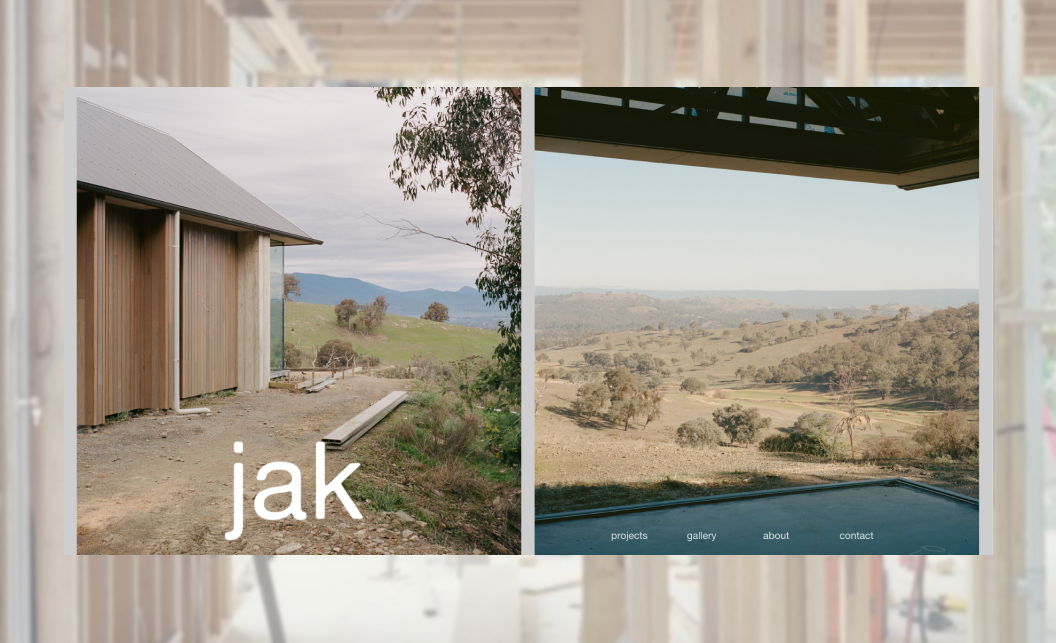
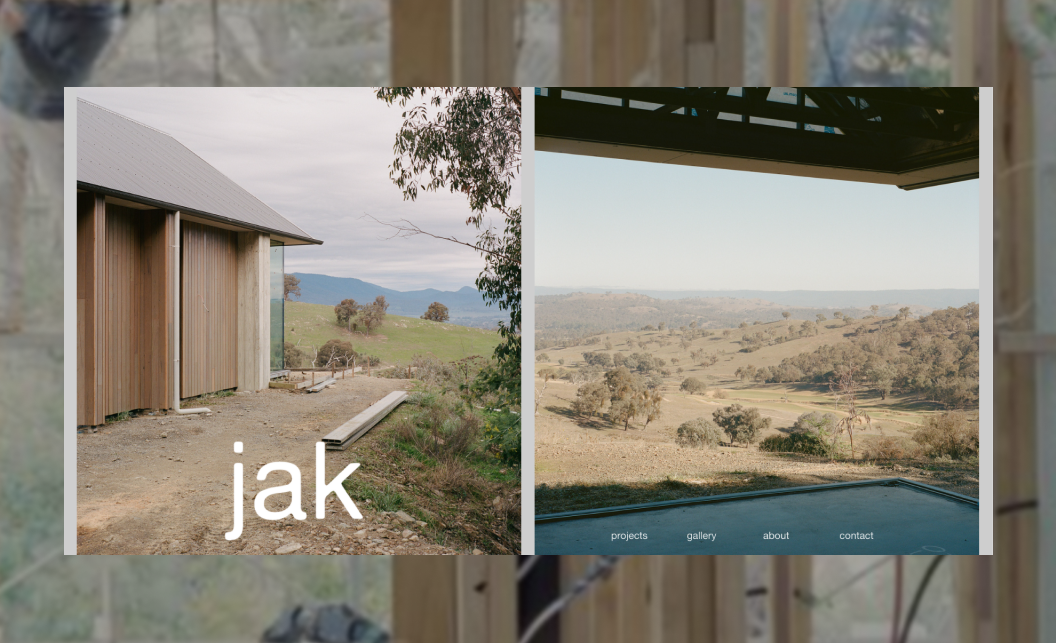
services

diff --git a/experience.html b/experience.html
@@ -25,6 +25,7 @@
           <button class="nav__link nav__link--close nav__link--close-clients js-clients-close" type="button" aria-label="Close clients list">x</button>
         </div>
       </div>
+      <a class="nav__link nav__link--services" href="#services">services</a>
     </nav>
     <p class="intro js-exp-intro" title="Something about our approach to experience design.">
       Something about our approach to experience design.
@@ -82,10 +83,12 @@
       <div class="exp-cases__rule"></div>
       <div class="exp-cases__grid">
         <article class="exp-case">
-          <div class="exp-case__media"></div>
-          <h3 class="exp-case__title">Balancing regional nuance with global cohesion</h3>
-          <span class="exp-case__company">Aesop</span>
-          <span class="exp-case__service">Experience Design</span>
+          <a class="exp-case__link" href="/case-study-aesop.html">
+            <div class="exp-case__media"></div>
+            <h3 class="exp-case__title">Balancing regional nuance with global cohesion</h3>
+            <span class="exp-case__company">Aesop</span>
+            <span class="exp-case__service">Experience Design</span>
+          </a>
         </article>
         <article class="exp-case">
           <div class="exp-case__media"></div>
@@ -103,8 +106,40 @@
     </section>
   </main>
 
-  <footer class="footer">
-    <p class="footer__text">kspf.studio</p>
+  <footer class="footer" id="services">
+    <p class="footer__title">Services</p>
+    <div class="footer__services">
+      <div class="footer__services-column">
+        <div class="footer__services-group">
+          <p class="footer__services-heading">Web Development</p>
+          <ul class="footer__services-list">
+            <li>Web Design</li>
+            <li>Shopify</li>
+            <li>Cargo | Squarespace</li>
+            <li>Custom HTML/CSS/ Java Script</li>
+          </ul>
+        </div>
+        <div class="footer__services-group">
+          <a class="footer__services-heading" href="/experience.html">Experience</a>
+          <ul class="footer__services-list">
+            <li>Product Design</li>
+            <li>Research</li>
+            <li>UX Strategy</li>
+            <li>Accessibility Consulting</li>
+          </ul>
+        </div>
+      </div>
+      <div class="footer__services-column">
+        <div class="footer__services-group">
+          <p class="footer__services-heading">Visual Design</p>
+          <ul class="footer__services-list">
+            <li>Identity</li>
+            <li>Editorial</li>
+            <li>Art Direction</li>
+          </ul>
+        </div>
+      </div>
+    </div>
   </footer>
 </body>
 </html>

diff --git a/style.css b/style.css
@@ -93,7 +93,7 @@ body.grid-overlay{
 
 .nav__group{
   grid-row: 1;
-  grid-column: 5 / -1;
+  grid-column: 5 / -2;
   display: inline-flex;
   align-items: center;
   gap: var(--nav-group-gap);
@@ -132,6 +132,10 @@ body.grid-overlay{
 
 
 .nav__link--home{ grid-column: 1 / span 2; }
+.nav__link--services{
+  grid-column: -2 / -1;
+  justify-self: end;
+}
 
 .nav__link--close{
 	  display: inline-block;
@@ -456,17 +460,56 @@ body.grid-overlay{
 /* --- footer --- */
 .footer{
   margin: 80px 0 0;
+  padding: 60px 0 90px;
   display: grid;
   grid-template-columns: repeat(var(--grid-cols), minmax(0, 1fr));
   column-gap: var(--gutter);
+  row-gap: 28px;
   border-top: 1px solid rgba(0, 0, 0, 0.6);
-  height: 150px;
-  align-items: center;
+  align-items: start;
 }
 
-.footer__text{
+.footer__title{
   margin: 0;
-  grid-column: 1 / span 4;
+  grid-column: 3 / span 2;
+}
+
+.footer__services{
+  grid-column: 8 / -1;
+  display: grid;
+  grid-template-columns: repeat(2, minmax(0, 1fr));
+  column-gap: 40px;
+  row-gap: 36px;
+}
+
+.footer__services-column{
+  display: flex;
+  flex-direction: column;
+  gap: 36px;
+}
+
+.footer__services-group{
+  display: flex;
+  flex-direction: column;
+  gap: 10px;
+}
+
+.footer__services-heading{
+  margin: 0;
+  color: inherit;
+  display: inline-block;
+  text-decoration: underline;
+  text-underline-offset: 3px;
+  text-decoration-thickness: 0.5px;
+}
+
+.footer__services-list{
+  list-style: none;
+  padding: 0;
+  margin: 0;
+  display: flex;
+  flex-direction: column;
+  gap: 6px;
 }
  
 /* --- project row --- */
@@ -558,6 +601,13 @@ body.grid-overlay{
   max-width: 420px;
   display: grid;
   row-gap: 10px;
+}
+
+.exp-case__link{
+  display: grid;
+  row-gap: 10px;
+  color: inherit;
+  text-decoration: none;
 }
 
 .exp-case__media{
@@ -821,7 +871,7 @@ body.grid-overlay{
 	  }
 
 	  .nav__link--home{ grid-column: 1 / span 2; }
-	  .nav__group{ grid-column: 3 / -1; }
+	  .nav__group{ grid-column: 3 / -2; }
 
 	  .clients-overlay__list{
 	    grid-column: 1 / -1;
@@ -875,6 +925,19 @@ body.grid-overlay{
     object-fit: cover;
   }
 
+  .footer{
+    padding: 50px 0 70px;
+  }
+
+  .footer__title{
+    grid-column: 1 / -1;
+  }
+
+  .footer__services{
+    grid-column: 1 / -1;
+    grid-template-columns: 1fr;
+    row-gap: 28px;
+  }
 
   .project{ display: block; width: 100%; margin: 44px 0 0; }
   .project__text{ width: 100%; max-width: none; }

diff --git a/index.html b/index.html
@@ -26,6 +26,7 @@
           <button class="nav__link nav__link--close nav__link--close-clients js-clients-close" type="button" aria-label="Close clients list">x</button>
         </div>
       </div>
+      <a class="nav__link nav__link--services" href="#services">services</a>
     </nav>
     <p class="intro" title="kspf is a digital practice, run by Rowan, in collaboration with a community of local creatives. We craft digital experiences beyond aesthetics. Designed to reflect each brand’s story and ambitions.">
      kspf is a design and research practice, run by Rowan Kuskopf, in collaboration with a community of local creatives. We design and build web experiences, custom fit and purpose built for each brand’s unique taste and story.
@@ -70,8 +71,40 @@
     <div id="projects" class="projects" aria-live="polite"></div>
   </main>
 
-  <footer class="footer">
-    <p class="footer__text">kspf.studio</p>
+  <footer class="footer" id="services">
+    <p class="footer__title">Services</p>
+    <div class="footer__services">
+      <div class="footer__services-column">
+        <div class="footer__services-group">
+          <p class="footer__services-heading">Web Development</p>
+          <ul class="footer__services-list">
+            <li>Web Design</li>
+            <li>Shopify</li>
+            <li>Cargo | Squarespace</li>
+            <li>Custom HTML/CSS/ Java Script</li>
+          </ul>
+        </div>
+        <div class="footer__services-group">
+          <a class="footer__services-heading" href="/experience.html">Experience</a>
+          <ul class="footer__services-list">
+            <li>Product Design</li>
+            <li>Research</li>
+            <li>UX Strategy</li>
+            <li>Accessibility Consulting</li>
+          </ul>
+        </div>
+      </div>
+      <div class="footer__services-column">
+        <div class="footer__services-group">
+          <p class="footer__services-heading">Visual Design</p>
+          <ul class="footer__services-list">
+            <li>Identity</li>
+            <li>Editorial</li>
+            <li>Art Direction</li>
+          </ul>
+        </div>
+      </div>
+    </div>
   </footer>
 </body>
 </html>

diff --git a/case-study-aesop.html b/case-study-aesop.html
@@ -29,6 +29,7 @@
           <button class="nav__link nav__link--close nav__link--close-clients js-clients-close" type="button" aria-label="Close clients list">x</button>
         </div>
       </div>
+      <a class="nav__link nav__link--services" href="#services">services</a>
     </nav>
     <p class="intro" title="Case study">
       Case study
@@ -204,8 +205,40 @@
     </section>
   </main>
 
-  <footer class="footer">
-    <p class="footer__text">kspf.studio</p>
+  <footer class="footer" id="services">
+    <p class="footer__title">Services</p>
+    <div class="footer__services">
+      <div class="footer__services-column">
+        <div class="footer__services-group">
+          <p class="footer__services-heading">Web Development</p>
+          <ul class="footer__services-list">
+            <li>Web Design</li>
+            <li>Shopify</li>
+            <li>Cargo | Squarespace</li>
+            <li>Custom HTML/CSS/ Java Script</li>
+          </ul>
+        </div>
+        <div class="footer__services-group">
+          <a class="footer__services-heading" href="/experience.html">Experience</a>
+          <ul class="footer__services-list">
+            <li>Product Design</li>
+            <li>Research</li>
+            <li>UX Strategy</li>
+            <li>Accessibility Consulting</li>
+          </ul>
+        </div>
+      </div>
+      <div class="footer__services-column">
+        <div class="footer__services-group">
+          <p class="footer__services-heading">Visual Design</p>
+          <ul class="footer__services-list">
+            <li>Identity</li>
+            <li>Editorial</li>
+            <li>Art Direction</li>
+          </ul>
+        </div>
+      </div>
+    </div>
   </footer>
 </body>
 </html>

diff --git a/case-study-aesop-b.html b/case-study-aesop-b.html
@@ -29,6 +29,7 @@
           <button class="nav__link nav__link--close nav__link--close-clients js-clients-close" type="button" aria-label="Close clients list">x</button>
         </div>
       </div>
+      <a class="nav__link nav__link--services" href="#services">services</a>
     </nav>
     <p class="intro" title="Case study">
       Case study
@@ -95,8 +96,40 @@
     </section>
   </main>
 
-  <footer class="footer">
-    <p class="footer__text">kspf.studio</p>
+  <footer class="footer" id="services">
+    <p class="footer__title">Services</p>
+    <div class="footer__services">
+      <div class="footer__services-column">
+        <div class="footer__services-group">
+          <p class="footer__services-heading">Web Development</p>
+          <ul class="footer__services-list">
+            <li>Web Design</li>
+            <li>Shopify</li>
+            <li>Cargo | Squarespace</li>
+            <li>Custom HTML/CSS/ Java Script</li>
+          </ul>
+        </div>
+        <div class="footer__services-group">
+          <a class="footer__services-heading" href="/experience.html">Experience</a>
+          <ul class="footer__services-list">
+            <li>Product Design</li>
+            <li>Research</li>
+            <li>UX Strategy</li>
+            <li>Accessibility Consulting</li>
+          </ul>
+        </div>
+      </div>
+      <div class="footer__services-column">
+        <div class="footer__services-group">
+          <p class="footer__services-heading">Visual Design</p>
+          <ul class="footer__services-list">
+            <li>Identity</li>
+            <li>Editorial</li>
+            <li>Art Direction</li>
+          </ul>
+        </div>
+      </div>
+    </div>
   </footer>
 </body>
 </html>
